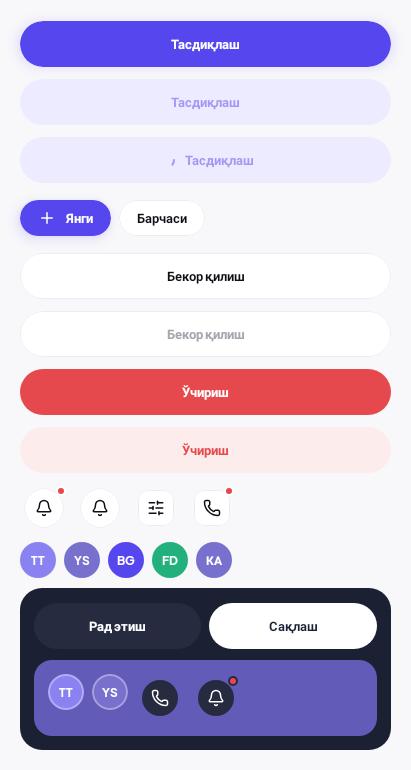
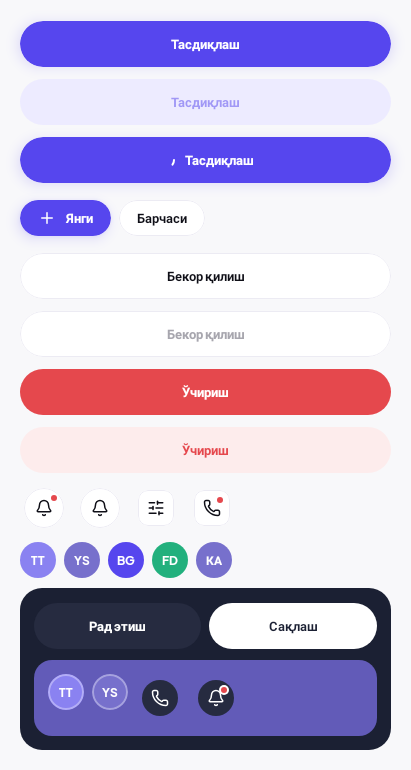
Fix(android) · the badge sits on the button, and a working button still looks alive
Two things the buttons got wrong. The unread dot was anchored to the 48 dp hit
area rather than to the button that is actually painted, so on a 40 dp button it
floated in the clear air outside the outline; it now hangs off the painted box's
top-right corner, up and right of the icon the way 2b-home.png shows, and its
ring is white on light and on dark alike instead of sampling the fill underneath
— on navy2 that had left it with no ring at all.

The other: PrimaryButton took its whole skin from `enabled && !loading`, so the
eleven live write actions that pass `loading` — place order, record payment,
dispatch, load truck and the rest — turned lavender the moment they were tapped
and read as unavailable. Loading now keeps the indigo fill with the spinner and
label in onDark and only takes the click away; lavender is reserved for a button
you genuinely cannot press. SecondaryButton and DangerButton already worked this
way and are unchanged.

Alongside: EtalonTheme provides LocalMinimumInteractiveComponentSize from
EtalonSpace.minTouch so D7's 48 dp comes from the token rather than from M3's
default agreeing with it, the icon button announces Role.Button, and a long
label ellipsizes instead of being cut mid-word. DangerButton's pressed fill
stays red — EtalonColors has no darker red and §1.1 is closed to new hexes.

Three baselines re-recorded: the two button sheets, and the large-font shipment
screen where «Юкланди деб белгилаш» now ends in an ellipsis.

diff --git a/android/core/designsystem/src/main/kotlin/uz/etalon/crm/core/designsystem/components/EtalonButtons.kt b/android/core/designsystem/src/main/kotlin/uz/etalon/crm/core/designsystem/components/EtalonButtons.kt
@@ -10,6 +10,7 @@ import androidx.compose.foundation.layout.Box
 import androidx.compose.foundation.layout.RowScope
 import androidx.compose.foundation.layout.Row
 import androidx.compose.foundation.layout.Spacer
+import androidx.compose.foundation.layout.fillMaxSize
 import androidx.compose.foundation.layout.fillMaxWidth
 import androidx.compose.foundation.layout.height
 import androidx.compose.foundation.layout.offset
@@ -30,6 +31,7 @@ import androidx.compose.ui.graphics.Color
 import androidx.compose.ui.graphics.Shape
 import androidx.compose.ui.graphics.vector.ImageVector
 import androidx.compose.ui.semantics.Role
+import androidx.compose.ui.text.style.TextOverflow
 import androidx.compose.ui.unit.Dp
 import androidx.compose.ui.unit.dp
 import uz.etalon.crm.core.designsystem.icon.EtalonIcon
@@ -92,28 +94,37 @@ private fun RowScope.ButtonBody(text: String?, loading: Boolean, leading: ImageV
         // them to `leadingIcon` as they are redrawn.
         leading != null -> { Icon(leading, null, Modifier.size(18.dp), tint = color); if (text != null) Spacer(Modifier.width(10.dp)) }
     }
-    if (text != null) Text(text, style = EtalonType.rowTitle, color = color, maxLines = 1)
+    if (text != null) Text(text, style = EtalonType.rowTitle, color = color, maxLines = 1, overflow = TextOverflow.Ellipsis)
 }
 
-/** The one action a screen exists for. Indigo pill, the system's only coloured shadow. */
+/**
+ * The one action a screen exists for. Indigo pill, the system's only coloured shadow.
+ *
+ * `loading` and `enabled = false` are two different things and must not look alike: a button that
+ * is working still shows the indigo fill with the spinner and label in onDark — only the click is
+ * taken away. The lavender skin means "you cannot do this", and eleven live write actions (place
+ * order, record payment, dispatch, …) would otherwise read as unavailable the moment they were
+ * tapped.
+ *
+ * @param compact paints the 36 dp pill instead of 46 and drops `fillMaxWidth` — the header form.
+ * The interactive slot stays 48 dp either way (D7), so a compact button still reserves 48 dp of
+ * height; that reservation only disappears where a taller sibling in the same row already claims it.
+ */
 @Composable
 fun PrimaryButton(
     text: String, onClick: () -> Unit, modifier: Modifier = Modifier,
     enabled: Boolean = true, loading: Boolean = false,
     leading: ImageVector? = null, leadingIcon: Int? = null, compact: Boolean = false,
-) {
-    val on = enabled && !loading
-    EtalonButtonBase(
-        onClick = onClick, enabled = on,
-        modifier = if (compact) modifier else modifier.fillMaxWidth(),
-        height = if (compact) H_COMPACT else H_REGULAR,
-        shape = EtalonShapes.pill,
-        fill = if (on) EtalonColors.indigo else EtalonColors.lavenderBg,
-        pressedFill = EtalonColors.indigoPressed,
-        border = null, onDark = true,
-        shadow = if (on) EtalonColors.indigo else null,
-    ) { ButtonBody(text, loading, leading, leadingIcon, if (on) EtalonColors.onDark else EtalonColors.indigo.copy(alpha = 0.5f)) }
-}
+) = EtalonButtonBase(
+    onClick = onClick, enabled = enabled && !loading,
+    modifier = if (compact) modifier else modifier.fillMaxWidth(),
+    height = if (compact) H_COMPACT else H_REGULAR,
+    shape = EtalonShapes.pill,
+    fill = if (enabled) EtalonColors.indigo else EtalonColors.lavenderBg,
+    pressedFill = EtalonColors.indigoPressed,
+    border = null, onDark = true,
+    shadow = if (enabled) EtalonColors.indigo else null,
+) { ButtonBody(text, loading, leading, leadingIcon, if (enabled) EtalonColors.onDark else EtalonColors.indigo.copy(alpha = 0.5f)) }
 
 @Composable
 fun SecondaryButton(
@@ -130,7 +141,9 @@ fun SecondaryButton(
 ) { ButtonBody(text, loading, leading, leadingIcon, if (enabled) EtalonColors.ink else EtalonColors.ink3) }
 
 /** Destructive: delete a shipment, remove a photo. Not in §2 — kept because five feature files
- *  call it and deleting a payment-adjacent action is exactly where a red button earns its keep. */
+ *  call it and deleting a payment-adjacent action is exactly where a red button earns its keep.
+ *  The pressed fill is `red` again — [EtalonColors] has no darker red, and §1.1 is closed to new
+ *  hexes, so the press reads through the ripple alone until the spec names a `redPressed`. */
 @Composable
 fun DangerButton(
     text: String, onClick: () -> Unit, modifier: Modifier = Modifier,
@@ -163,11 +176,20 @@ fun InverseButton(text: String, onClick: () -> Unit, modifier: Modifier = Modifi
         fill = EtalonColors.surface, pressedFill = EtalonColors.lavenderBg, border = null, onDark = false,
     ) { ButtonBody(text, false, null, null, if (enabled) EtalonColors.navy else EtalonColors.ink3) }
 
+/** How far in from the painted button's top-right corner the badge sits. Enough that the 10 dp
+ *  dot clears a pill's curve at both 36 and 40 dp, so it never floats outside the outline. */
+private val BADGE_INSET = 5.dp
+
 /**
  * 36–40 dp square or pill. On light: white with a hairline. On dark: navy2, no border.
- * [badge] is the unread dot from `2b-home.png` — 7 dp red with a 1.5 dp ring in the surface
- * colour, so it reads as a hole punched in the button rather than a sticker on top of it.
- * The outer box is the 48 dp hit area (D7); [size] is what is painted inside it.
+ * [badge] is the unread dot from `2b-home.png` — 7 dp red with the spec's 1.5 dp **white** ring,
+ * up and to the right of the icon but inside the button's corner. The ring is white on light and
+ * on dark alike (§2): on white it disappears into the button, on navy2 it is the gap that keeps
+ * the red off the dark fill.
+ *
+ * The outer box is the 48 dp hit area (D7); [size] is the painted button, and the badge is
+ * anchored to that — anchoring it to the hit area would push it into the clear air around a
+ * button smaller than 48 dp.
  */
 @Composable
 fun EtalonIconButton(
@@ -175,18 +197,22 @@ fun EtalonIconButton(
     onDark: Boolean = false, badge: Boolean = false, size: Dp = 40.dp,
     shape: Shape = EtalonShapes.pill, tint: Color? = null,
 ) = Box(modifier.size(EtalonSpace.minTouch), contentAlignment = Alignment.Center) {
-    Box(
-        Modifier
-            .size(size).clip(shape)
-            .background(if (onDark) EtalonColors.navy2 else EtalonColors.surface)
-            .then(if (onDark) Modifier else Modifier.border(EtalonSpace.hairline, EtalonColors.surfaceBorder, shape))
-            .clickable(indication = etalonRipple(onDark), interactionSource = remember { MutableInteractionSource() }, onClick = onClick),
-        contentAlignment = Alignment.Center,
-    ) { EtalonIcon(icon, contentDescription, size = 18.dp, tint = tint ?: if (onDark) EtalonColors.onDark else EtalonColors.ink) }
-    if (badge) Box(
-        Modifier.align(Alignment.TopEnd).offset(x = (-2).dp, y = 2.dp)
-            .size(10.dp).clip(EtalonShapes.pill)
-            .background(if (onDark) EtalonColors.navy2 else EtalonColors.surface)
-            .padding(1.5.dp).clip(EtalonShapes.pill).background(EtalonColors.red),
-    )
+    Box(Modifier.size(size)) {
+        Box(
+            Modifier
+                .fillMaxSize().clip(shape)
+                .background(if (onDark) EtalonColors.navy2 else EtalonColors.surface)
+                .then(if (onDark) Modifier else Modifier.border(EtalonSpace.hairline, EtalonColors.surfaceBorder, shape))
+                .clickable(
+                    role = Role.Button, indication = etalonRipple(onDark),
+                    interactionSource = remember { MutableInteractionSource() }, onClick = onClick,
+                ),
+            contentAlignment = Alignment.Center,
+        ) { EtalonIcon(icon, contentDescription, size = 18.dp, tint = tint ?: if (onDark) EtalonColors.onDark else EtalonColors.ink) }
+        if (badge) Box(
+            Modifier.align(Alignment.TopEnd).offset(x = -BADGE_INSET, y = BADGE_INSET)
+                .size(10.dp).clip(EtalonShapes.pill).background(EtalonColors.onDark)
+                .padding(1.5.dp).clip(EtalonShapes.pill).background(EtalonColors.red),
+        )
+    }
 }

diff --git a/android/core/designsystem/src/test/kotlin/uz/etalon/crm/core/designsystem/ButtonsScreenshotTest.kt b/android/core/designsystem/src/test/kotlin/uz/etalon/crm/core/designsystem/ButtonsScreenshotTest.kt
@@ -33,11 +33,13 @@ import uz.etalon.crm.core.designsystem.theme.EtalonShapes
 import uz.etalon.crm.core.designsystem.theme.EtalonTheme
 
 /**
- * §2's buttons in one sheet, every state the spec names: the primary in its four forms, the
- * secondary and the danger button enabled and disabled, the icon button with and without its
- * badge dot, and the avatar on white and on an indigoPanel with its ring. The navy strip at the
- * bottom is the sticky pair of `2b-order-detail.png` — DarkButton and InverseButton only ever
- * appear there, so they are only legible against navy.
+ * §2's buttons in one sheet, every state the spec names: the primary enabled, disabled and
+ * loading — the last two must not look alike — the secondary and the danger button enabled and
+ * disabled, the icon button with and without its badge dot, and the avatar on white and on an
+ * indigoPanel with its ring. The navy strip at the bottom is §2's ConfirmSheet footer — the
+ * DarkButton / InverseButton pair only ever appears there, so it is only legible against navy.
+ * The badged bell inside that strip is what pins the badge's ring white rather than letting it
+ * sample the button underneath.
  */
 @RunWith(RobolectricTestRunner::class)
 @GraphicsMode(GraphicsMode.Mode.NATIVE)

diff --git a/android/core/designsystem/src/main/kotlin/uz/etalon/crm/core/designsystem/theme/EtalonTheme.kt b/android/core/designsystem/src/main/kotlin/uz/etalon/crm/core/designsystem/theme/EtalonTheme.kt
@@ -4,6 +4,7 @@ import androidx.compose.foundation.Indication
 import androidx.compose.foundation.LocalIndication
 import androidx.compose.material.ripple.RippleAlpha
 import androidx.compose.material3.ColorScheme
+import androidx.compose.material3.LocalMinimumInteractiveComponentSize
 import androidx.compose.material3.LocalRippleConfiguration
 import androidx.compose.material3.MaterialTheme
 import androidx.compose.material3.RippleConfiguration
@@ -66,6 +67,9 @@ fun EtalonTheme(darkTheme: Boolean = false, content: @Composable () -> Unit) {
     CompositionLocalProvider(
         LocalEtalonColors provides LegacyExtended,
         LocalIndication provides etalonRipple(),
+        // D7: `minimumInteractiveComponentSize()` reads this local, so the 48 dp comes from the
+        // design token rather than from M3's own default happening to agree with it.
+        LocalMinimumInteractiveComponentSize provides EtalonSpace.minTouch,
         LocalRippleConfiguration provides RippleConfiguration(color = Color.Unspecified, rippleAlpha = EtalonRippleAlpha),
     ) {
         MaterialTheme(
